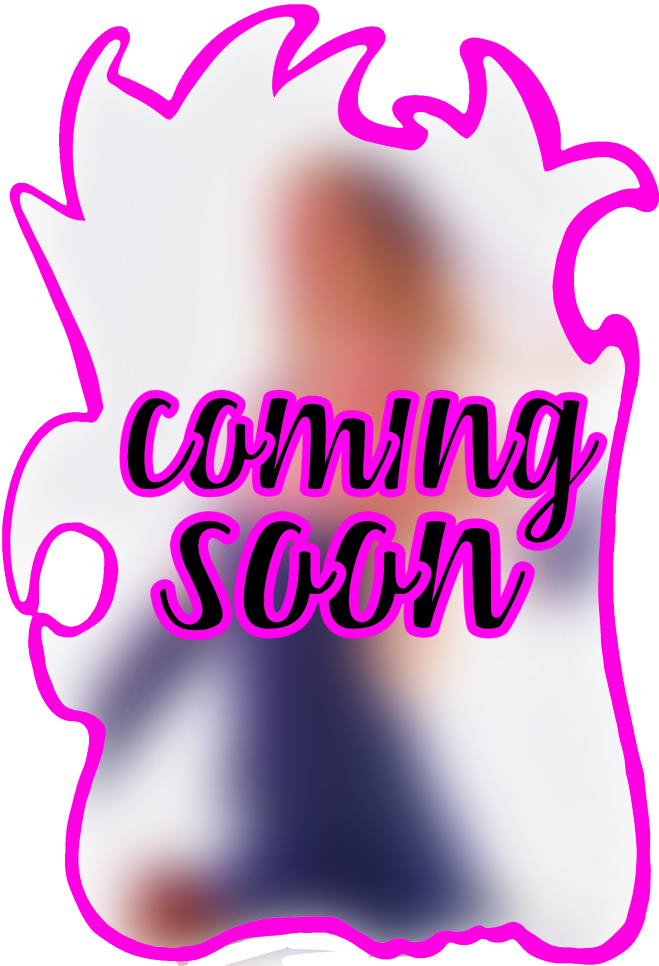
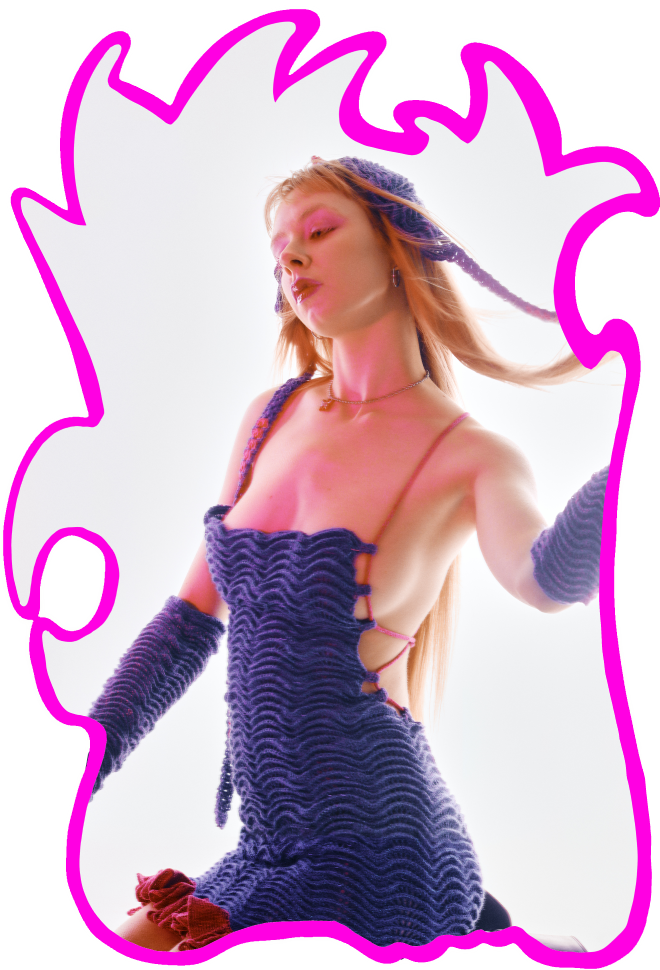
evasion going live

diff --git a/projects.html b/projects.html
@@ -64,7 +64,7 @@
           </nav>
           <div class="container">
             <div class="row">
-  <div class="col-md text-center"><a class="projectLink" ><img class="fit_width zoomIn" src="images/12.png"><p class="projName">EVASION</p><p class="projDate">2022</p></a></div>
+  <div class="col-md text-center"><a class="projectLink" href="projects/evasion"><img class="fit_width zoomIn" src="images/12.png"><p class="projName">EVASION</p><p class="projDate">2022</p></a></div>
   <div class="col-md text-center"><a class="projectLink" href="projects/menigilda"><img class="fit_width zoomIn" src="images/11.png"><p class="projName">MENIGILDA</p><p class="projDate">2022</p></a></div>
   <div class="col-md text-center"><a class="projectLink" ><img class="fit_width zoomIn" src="images/10.png"><p class="projName">CABALLO ANDALUZ</p><p class="projDate">2021</p></a></div>
               </div>
